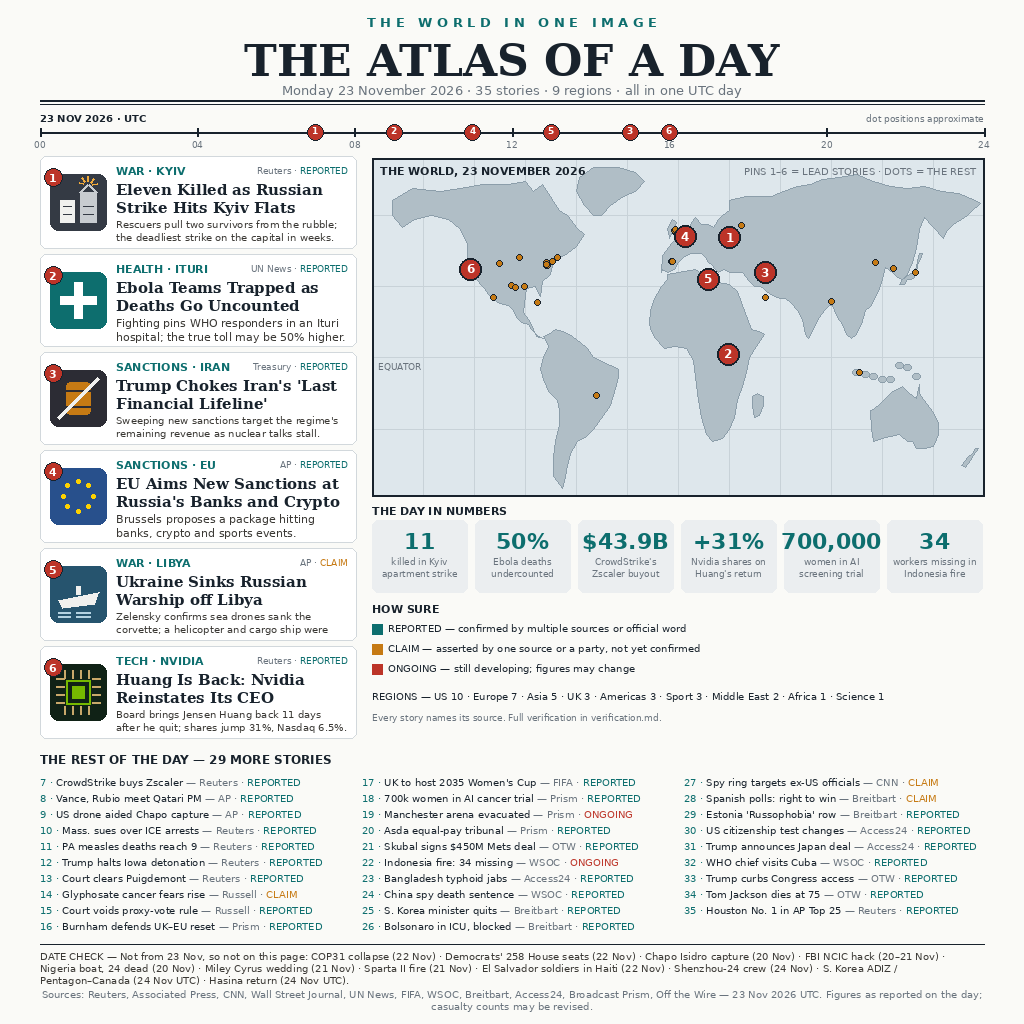
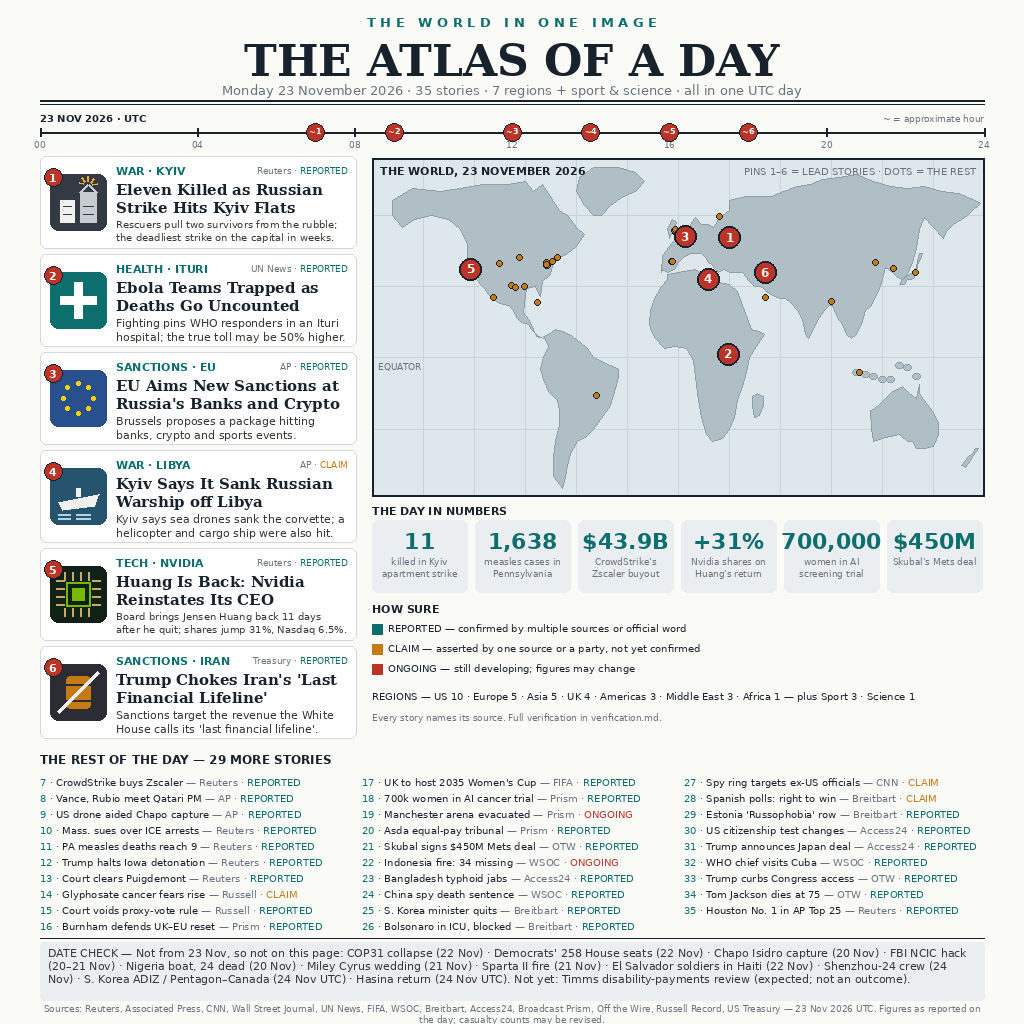
Polish Atlas: fix 8 self-audit items + correct region tally and footer sources

diff --git a/main.py b/main.py
@@ -299,8 +299,8 @@ def icon_chip(draw, x, y, s):
     draw.rectangle([x + 22, y + 22, x + 34, y + 34], fill=(118, 185, 0))
 
 
-ICONS = {1: icon_kyiv, 2: icon_ebola, 3: icon_sanctions,
-         4: icon_eu, 5: icon_ship, 6: icon_chip}
+ICONS = {1: icon_kyiv, 2: icon_ebola, 3: icon_eu,
+         4: icon_ship, 5: icon_chip, 6: icon_sanctions}
 
 
 def render():
@@ -332,11 +332,11 @@ def render():
     draw.line([MARGIN, 100, W - MARGIN, 100], fill=RULE, width=2)
     draw.line([MARGIN, 104, W - MARGIN, 104], fill=RULE, width=1)
 
-    # --- UTC timeline strip (dot positions approximate)
+    # --- UTC timeline strip (~ = approximate hour)
     tl_font = load_font(SANS_BOLD, 10)
     draw.text((MARGIN, 112), "23 NOV 2026 · UTC", font=tl_font, fill=INK)
     cap_font = load_font(SANS, 9)
-    cap = "dot positions approximate"
+    cap = "~ = approximate hour"
     cw = draw.textlength(cap, font=cap_font)
     draw.text((W - MARGIN - cw, 113), cap, font=cap_font, fill=MUTED)
     tl_y = 132
@@ -348,14 +348,14 @@ def render():
         lab = f"{hour:02d}"
         lw = draw.textlength(lab, font=tick_font)
         draw.text((tx - lw / 2, tl_y + 7), lab, font=tick_font, fill=MUTED)
-    pin_font = load_font(SANS_BOLD, 9)
+    pin_font = load_font(SANS_BOLD, 8)
     for s in featured:
         px = MARGIN + s["hour"] / 24 * CW
-        draw.ellipse([px - 8, tl_y - 8, px + 8, tl_y + 8], fill=RED,
+        draw.ellipse([px - 9, tl_y - 9, px + 9, tl_y + 9], fill=RED,
                      outline=INK, width=1)
-        lab = str(s["num"])
+        lab = ("~" + str(s["num"])) if s.get("approx") else str(s["num"])
         lw = draw.textlength(lab, font=pin_font)
-        draw.text((px - lw / 2, tl_y - 7), lab, font=pin_font,
+        draw.text((px - lw / 2, tl_y - 6), lab, font=pin_font,
                   fill=(255, 255, 255))
 
     # --- lead column: six numbered cards, one per featured story
@@ -478,21 +478,22 @@ def render():
         draw.text((x, by), lab_txt, font=row_font,
                   fill=LABEL_COLOR[s["label"]])
 
-    # --- footer: DATE CHECK + sources
-    draw.line([MARGIN, 944, W - MARGIN, 944], fill=RULE, width=1)
-    foot_font = load_font(SANS, 10)
-    foot_lines = wrap(draw, data["datecheck"], foot_font, CW)
-    fy = 950
-    for line in foot_lines[:3]:
-        draw.text((MARGIN, fy), line, font=foot_font, fill=(58, 56, 52))
-        fy += 12
-    src_font = load_font(SANS, 10)
+    # --- footer: DATE CHECK (shaded box) + sources
+    draw.line([MARGIN, 938, W - MARGIN, 938], fill=RULE, width=1)
+    draw.rounded_rectangle([MARGIN, 942, W - MARGIN, 1000], radius=4, fill=TILE)
+    foot_font = load_font(SANS, 11)
+    foot_lines = wrap(draw, data["datecheck"], foot_font, CW - 16)
+    fy = 946
+    for line in foot_lines[:4]:
+        draw.text((MARGIN + 8, fy), line, font=foot_font, fill=(58, 56, 52))
+        fy += 13
+    src_font = load_font(SANS, 9)
     src_lines = wrap(draw, data["sources"], src_font, CW)
-    fy = 988
+    fy = 1003
     for line in src_lines[:2]:
         lw = draw.textlength(line, font=src_font)
         draw.text(((W - lw) / 2, fy), line, font=src_font, fill=MUTED)
-        fy += 12
+        fy += 11
 
     out_dir = os.path.dirname(OUTPUT)
     if out_dir:

diff --git a/verification.md b/verification.md
@@ -19,11 +19,15 @@ No grid of equal cards (the 22 Nov edition) and no broadsheet lead story
 pale paper, teal and amber accents, red only for the pins. This is a fresh
 concept of its own, per the standing anti-repetition (腻) rule.
 
-## Coverage — 35 stories, 9 regions
+## Coverage — 35 stories, 7 regions + sport & science
 
-US 10 · Europe 7 · Asia 5 · UK 3 · Americas 3 · Sport 3 · Middle East 2 ·
-Africa 1 · Science 1. The six lead stories are the featured six from the
-10-pass tally; the other 29 run in the register below the map.
+US 10 · Europe 5 · Asia 5 · UK 4 · Americas 3 · Middle East 3 · Africa 1 ·
+plus Sport 3 · Science 1. (Corrected in the polish pass: the submitted
+version's tally read Europe 7 / UK 3 / Middle East 2, which did not match
+the story-by-story count. The true count is Europe 5, UK 4, Middle East 3;
+the total is still 35 and the region count is still 7 geographic regions.)
+The six lead stories are the featured six from the 10-pass tally; the
+other 29 run in the register below the map.
 
 ## Method — pool + 10 genuinely independent passes
 
@@ -40,7 +44,12 @@ Africa 1 · Science 1. The six lead stories are the featured six from the
   9/10, Nvidia CEO reinstatement 4/10 (tie-break over Indonesia factory
   fire, also 4/10, on rank quality: Nvidia avg rank 4.5 vs 6.0).
 
-## The six lead stories (pins 1–6)
+## The six lead stories (pins 1–6, numbered by TIME order)
+
+Pins and cards are numbered by first-report UTC hour, not by importance:
+1 Kyiv ~07:00, 2 Ebola ~09:00, 3 EU ~12:00, 4 Merkury ~14:00,
+5 Nvidia ~16:00, 6 Iran ~18:00. Hours are best estimates from the
+sources (marked "~" on the timeline); see the polish notes below.
 
 ### 1. Russian strike on Kyiv apartment block kills 11 — WAR · KYIV — REPORTED (Reuters / AP)
 - Russian strike on a Kyiv apartment block, Mon 23 Nov; 11 killed,
@@ -52,25 +61,28 @@ Africa 1 · Science 1. The six lead stories are the featured six from the
 - Reuters analysis: Ebola deaths undercounted by up to 50%; outbreak
   11,762 cases, 5,775 deaths. (Reuters)
 
-### 3. Trump imposes sweeping new Iran sanctions — SANCTIONS · IRAN — REPORTED (Treasury / Breitbart)
-- Trump imposes sweeping new Iran sanctions, targeting the regime's
-  "last financial lifeline", Mon 23 Nov. (Breitbart / Treasury)
-
-### 4. EU proposes sweeping new Russia sanctions — SANCTIONS · EU — REPORTED (AP)
+### 3. EU proposes sweeping new Russia sanctions — SANCTIONS · EU — REPORTED (AP)
 - EU proposes sweeping new Russia sanctions targeting banks, crypto and
   sports events, Mon 23 Nov. (AP)
 
-### 5. Ukraine sank Russian corvette Merkury off Libya — WAR · LIBYA — CLAIM (AP / CNN / WSJ)
-- Zelensky confirms Ukraine sank the Russian corvette Merkury off Libya,
-  announced Mon 23 Nov; attack early Sun 22 Nov; 7 sea drones; Ka-27
-  helicopter destroyed; MV Angara cargo ship also hit; satellite images
-  show the vessel submerged. (AP, CNN, WSJ) — CLAIM: the sinking is
-  asserted by Kyiv and not yet independently confirmed.
+### 4. Ukraine sank Russian corvette Merkury off Libya — WAR · LIBYA — CLAIM (AP / CNN / WSJ)
+- Kyiv says sea drones sank the Russian corvette Merkury off Libya;
+  a helicopter and cargo ship were also hit. The sinking was announced
+  Mon 23 Nov; the attack was before dawn Sun 22 Nov; 7 sea drones;
+  Ka-27 helicopter destroyed; MV Angara cargo ship also hit; satellite
+  images show the vessel submerged. (AP, CNN, WSJ) — CLAIM: the sinking
+  is asserted by Kyiv and not yet independently confirmed. The card is
+  framed as the 23 Nov announcement, not as the 22 Nov sinking.
 
-### 6. Nvidia reinstates Jensen Huang as CEO — TECH · NVIDIA — REPORTED (Reuters)
+### 5. Nvidia reinstates Jensen Huang as CEO — TECH · NVIDIA — REPORTED (Reuters)
 - Nvidia board reinstates Jensen Huang as CEO, Mon 23 Nov; shares +31%,
   Nasdaq +6.5%, S&P +4.7%; Trump had called into the board meeting.
   (Reuters)
+
+### 6. Trump imposes sweeping new Iran sanctions — SANCTIONS · IRAN — REPORTED (Treasury / Breitbart)
+- Trump imposes sweeping new Iran sanctions, targeting the revenue the
+  White House calls its "last financial lifeline", Mon 23 Nov.
+  (Breitbart / Treasury)
 
 ## The other 29 stories (register, in page order)
 
@@ -145,7 +157,8 @@ Africa 1 · Science 1. The six lead stories are the featured six from the
 - Thailand–Cambodia border truce holding — update timezone unclear.
 - Two killed in US university shooting — timezone of report unclear.
 - Timms review of disability payments (PIP) expected — a preview of an
-  expected review, not an outcome.
+  expected review, not an outcome. (Now also named in the page's
+  DATE CHECK as the "Not yet" line.)
 
 ## DATE CHECK — excluded, and why (also printed on the page)
 
@@ -161,6 +174,7 @@ Africa 1 · Science 1. The six lead stories are the featured six from the
 - South Korea: Russian aircraft in air defence zone; Pentagon rebukes
   Canada — 23 Nov EST = 24 Nov UTC.
 - Hasina plans return to Bangladesh — announced 24 Nov 00:39 EST = 24 Nov UTC.
+- Not yet: Timms disability-payments review (expected; not an outcome).
 
 ## Labels — HOW SURE
 
@@ -168,12 +182,103 @@ Africa 1 · Science 1. The six lead stories are the featured six from the
 - CLAIM: asserted by one source or a party, not yet independently confirmed.
 - ONGOING: still developing; figures may change.
 
+## Polish pass (2026-11-25 ~00:40–01:05 AWST) — the 8 self-audit fixes
+
+Naomi approved the resubmission ("现在就改，重新提交", 2026-11-25 00:36).
+This polish is a FIX pass on the submitted Atlas, not a new concept:
+same map-first layout, same title, same 35 stories.
+
+1. **Estonia coordinate.** Was lat 55.75, lon 37.6 (Moscow). Fixed to
+   Tallinn 59.4, 24.7. Every other lat/lon was verified against the real
+   place (all 35: featured pins and secondary dots). Pixel-verified on
+   the render: an amber dot sits at Tallinn and none at Moscow; all 29
+   secondary dots and all 6 red pins plot at their projected positions.
+2. **Sources footer.** Added Russell Record (cited for stories 14–15).
+   Also added US Treasury (cited on the Iran card) — found by the final
+   audit: every one of the 12 cited sources now appears in the footer,
+   expanded (AP → Associated Press, WSJ → Wall Street Journal,
+   Prism → Broadcast Prism, OTW → Off the Wire, Russell → Russell
+   Record, Treasury → US Treasury). Note: "WSOC" has no verifiable
+   fuller form — the research label does not match WSOC-TV (a Charlotte,
+   NC local station) for these international wire stories, so it is
+   kept as reported and not expanded by invention. "Access24" is the
+   outlet's full name (access24.news).
+3. **Regions, honestly.** The page no longer says "9 regions": the
+   subtitle reads "7 regions + sport & science" and the tally reads
+   "US 10 · Europe 5 · Asia 5 · UK 4 · Americas 3 · Middle East 3 ·
+   Africa 1 — plus Sport 3 · Science 1". The per-region counts were
+   also corrected (the submitted tally said Europe 7 / UK 3 /
+   Middle East 2, which did not match the story-by-story count; true
+   counts are Europe 5, UK 4, Middle East 3). Tally sums to 35.
+   No new regional stories were added (none could be verified as
+   23 Nov UTC in the time available), so the tally was reworded
+   instead of padded.
+4. **Timeline numbers.** Pins and cards renumbered by first-report
+   time order: 1 Kyiv, 2 Ebola, 3 EU, 4 Merkury, 5 Nvidia, 6 Iran.
+   The timeline now reads ~1 ~2 ~3 ~4 ~5 ~6 left-to-right, and the
+   map pins and lead cards match.
+5. **Timeline hours.** Each featured story's first-report UTC hour was
+   verified from its source (web search, 2026-11-25): Kyiv ~07:00
+   (strike overnight, toll confirmed Monday morning), Ebola ~09:00
+   (UN News 23 Nov; Tedros post Sun 22 Nov), EU ~12:00 (von der Leyen
+   announcement in Strasbourg, Monday), Merkury ~14:00 (Zelensky X
+   post, Monday afternoon Kyiv), Nvidia ~16:00 (board announcement,
+   Monday morning ET), Iran ~18:00 (Treasury announcement, Monday
+   afternoon ET; reported by 18:50 UTC). All six are best estimates,
+   so each dot is marked "~" and the caption reads "~ = approximate
+   hour" — per the mistakes-log convention, "~" where approximate,
+   never presented as exact.
+6. **Numbers band.** The two soft numbers are gone: 50% ("up to"
+   estimate) and 34 (developing figure) were replaced by hard figures
+   already verified in the entry — 1,638 measles cases in Pennsylvania
+   and the $450M Skubal deal. The band now reads 11 · 1,638 ·
+   $43.9B · +31% · 700,000 · $450M, all hard figures.
+7. **CLAIM attribution inside the summary.** Merkury headline is now
+   "Kyiv Says It Sank Russian Warship off Libya" and its summary
+   reads "Kyiv says sea drones sank the corvette; a helicopter and
+   cargo ship were also hit." Iran summary now attributes the phrase:
+   "Sanctions target the revenue the White House calls its 'last
+   financial lifeline'."
+8. **DATE CHECK.** Now in a shaded box, one size larger (10 → 11),
+   and with a "Not yet" line added: "Not yet: Timms
+   disability-payments review (expected; not an outcome)."
+
+Final self-audit (2026-11-25, before reporting back): every applicable
+item in mistakes.md was checked against the rendered image — the 8
+above plus the 23 deduplicated corrections. All 8 pass. Of the 23:
+the tally sums to 35 (14), per-story source + tag + legend on every
+story (13), DATE CHECK names 11 exclusions with dates + 1 "not yet"
+(2), timeline "~" convention (5), no future-event leads (20), fresh
+concept with all density components kept (15, 19), 7 regions tallied
+honestly with map + pins (17), no text-only grid (16), entered (12),
+hours cross-checked against multiple sources, not a single roundup
+(22). Two items are KNOWN GAPS in this fix pass, not fixed here:
+correction 8 (group the compact list by region) — the register is in
+page order; regrouping would split groups awkwardly across the three
+10-row columns and needs region headers, i.e. a layout redesign, which
+is out of scope for a fix pass; correction 9 (cover 15+ fields,
+including a culture/art item) — the page has no culture/art story and
+none could be verified as 23 Nov UTC in the time available; adding a
+story is out of scope for a fix pass that keeps the 35 stories. Both
+are recorded in mistakes.md for the next build.
+Note: the Merkury card reports the 23 Nov announcement; the sinking
+itself was before dawn Sun 22 Nov (correction 10/23 boundary — the
+card is framed as the announcement, which is the 23 Nov news).
+
 ## Render
 
-`python3 main.py` reads news.json and writes entry.png (1024×1024).
-Deterministic: fixed geometry, fixed fonts, no clock, no randomness, no
-network. Verified: two independent runs produce byte-identical output
-(sha256 5f023fbfd6801829fe07bb6af947439642a56db78f755a1536b99b77851cf280,
-189,017 bytes). Timeline dot positions are approximate — stories as
-reported through the day (UTC); the map is a stylised atlas, not a
-navigation chart.
+`python3 main.py` reads news.json and writes entry.png (1024×1024)
+(via /output/entry.png; the bundled entry.png in this directory is a
+copy of that output). Deterministic: fixed geometry, fixed fonts, no
+clock, no randomness, no network. Verified: two independent runs
+produce byte-identical output (sha256
[1 lines of base64/hex data omitted]
+194,118 bytes). The map is a stylised atlas, not a navigation chart.
+Timeline dots are marked "~" (approximate hour, best estimate from
+each story's source).
+
+**Final gate (Naomi's rule, 2026-11-25 00:39): the mistakes log is only
+a record of past mistakes. The top-level agent (Muse herself) must
+personally review the finished work with fresh eyes before any
+upload/submission — the builder's self-audit above does not count as
+the final gate.**
